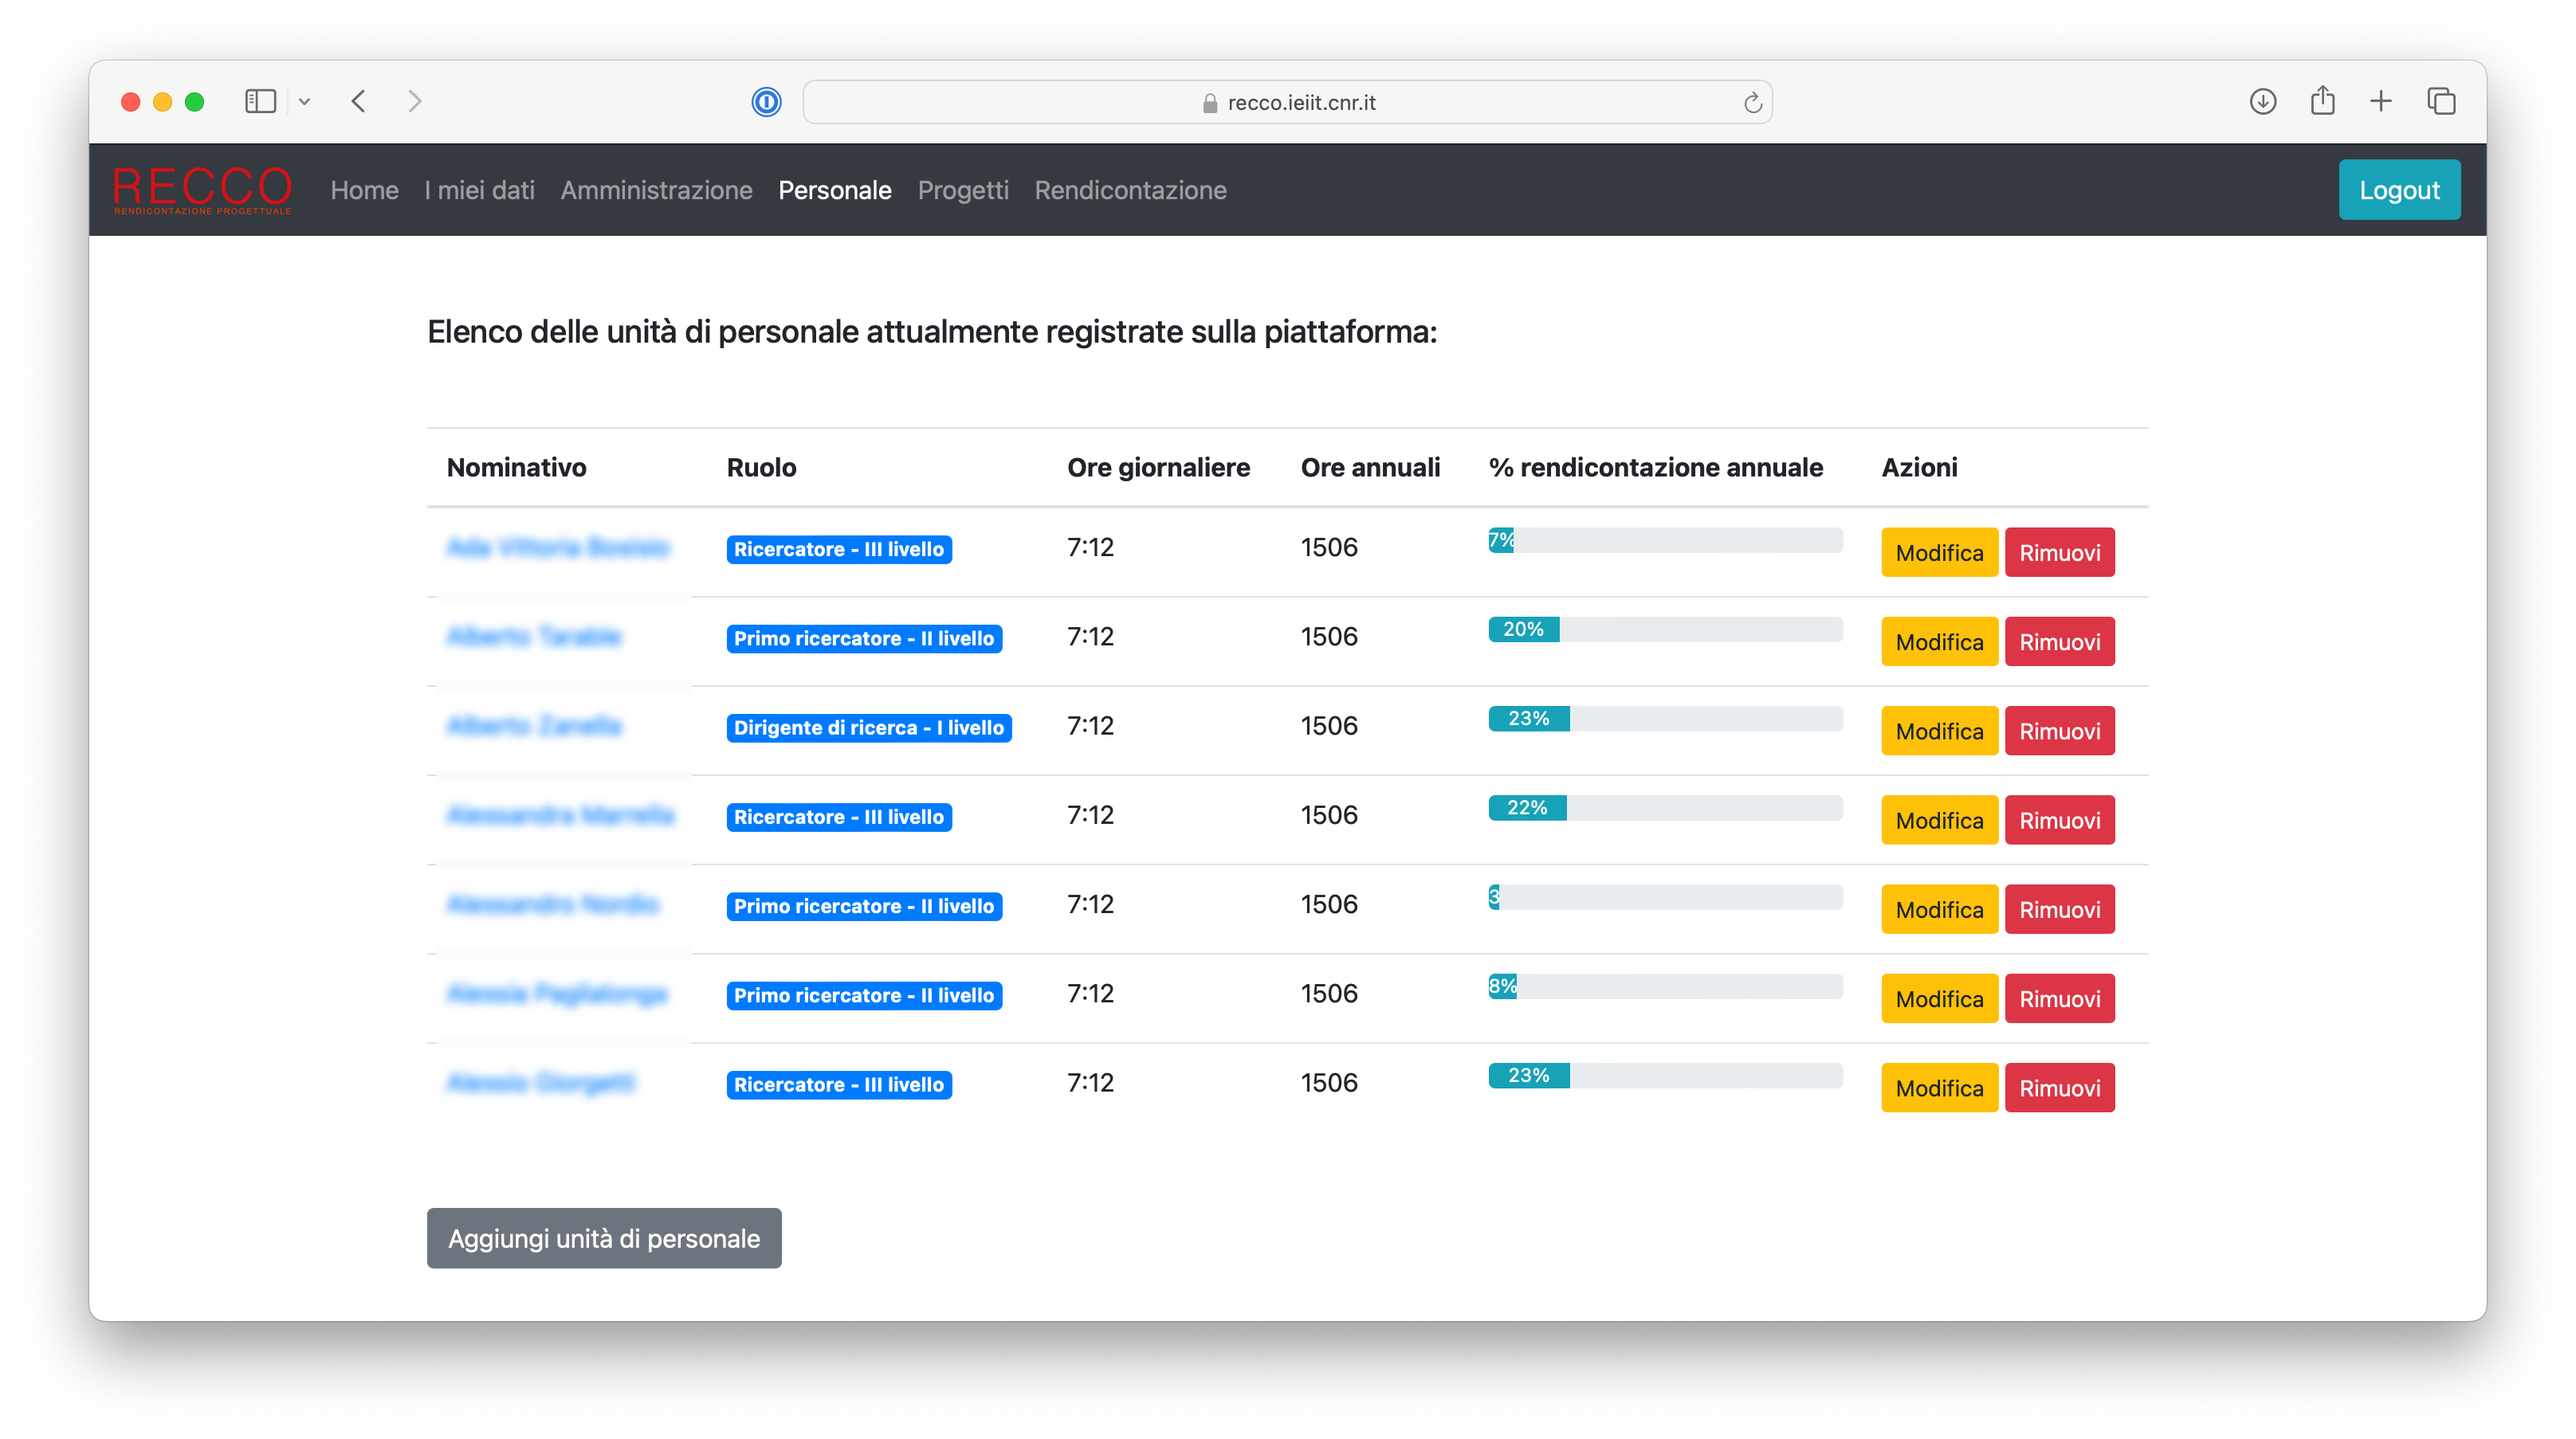
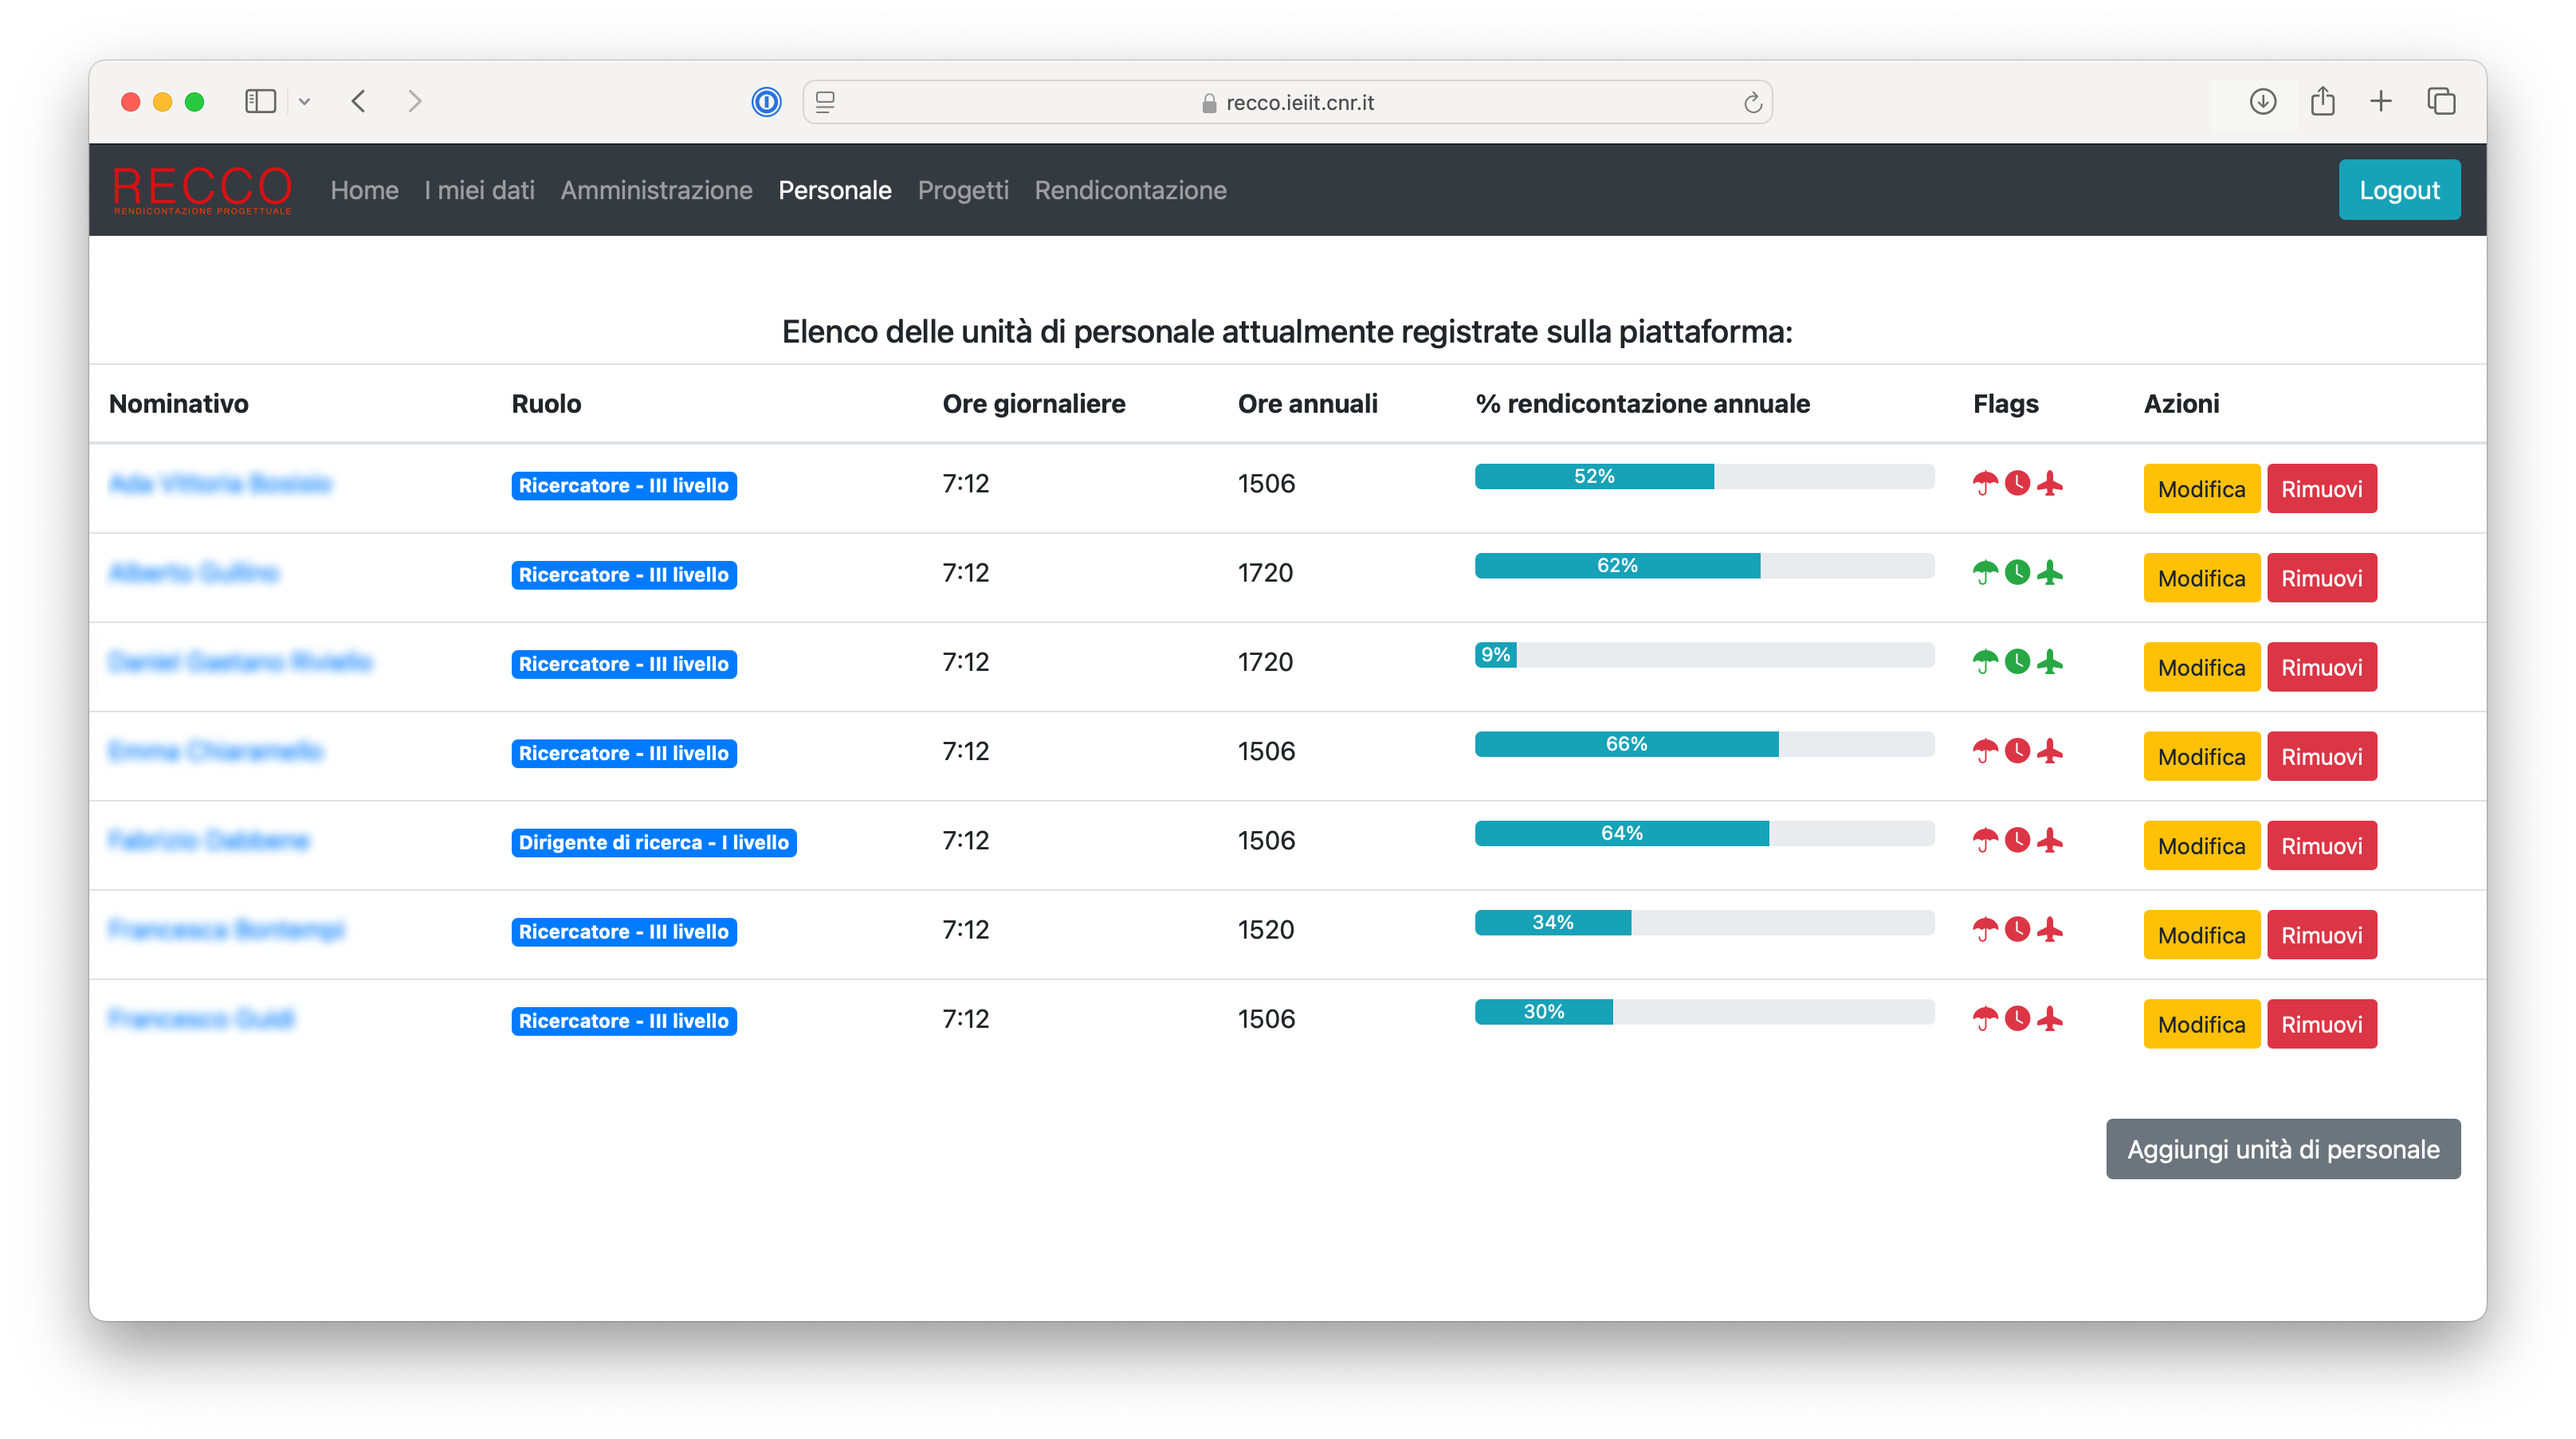
Updated to 1.1 version with personnel flags

diff --git a/docs/utilizzo_gestionepersonale.md b/docs/utilizzo_gestionepersonale.md
@@ -21,6 +21,13 @@ Tale finestra mostra una lista di unità di personale registrate all'interno del
 * ore giornaliere da svolgere
 * ore annuali da svolgere
 * percentuale di ore rendicontate nell'anno corrente, rispetto al totale delle ore annuali
+* flags
+
+Per quanto riguarda i flags, questi permettono di abilitare la possibilità di rendicontare ore secondo determinate regole, generando fogli orari da compilare specifici personalizzati per ogni utente, secondo quanto definito dai relativi flag.
+In particolare:
+* rendicontazione fuori sede (identificata da un ombrello): è possibile abilitare o disabilitare la possibilità per una specifica unità di personale di rendicontare ore in periodi fuori sede
+* rendicontazione oltre le ore giornaliere (identificata da un orologio): è possibile abilitare o disabilitare la possibilità di rendicontare più delle ore giornaliere previste (es. più di 7:12 ore); può essere ad esempio utile abilitare questa funzionalità per personale con contratto a tempo determinato
+* rendicontazione in missione (identificata da un aereo): è possibile abilitare o disabilitare la possibilità di rendicontare periodi in missione
 
 #### Modifica di una unità di personale ####
 
@@ -62,7 +69,7 @@ Per rimuovere una unità di personale, procedere come segue:
 
 E' inoltre possibile registrare una nuova unità di personale all'interno del sistema, tramite il bottone `Aggiungi unità di personale`.
 
-<img src="img/interfaccia_personale_lista_aggiungi.png">
+<img src="img/interfaccia_personale_lista_aggiunta.png">
 
 *Finestra di aggiunta di una nuova unità di personale*
 

diff --git a/README.md b/README.md
@@ -13,7 +13,7 @@ Questo repository riporta una guida di utilizzo della piattaforma RECCO, svilupp
 3. [Prima configurazione](docs/primaconfigurazione.md)
 4. [Utilizzo del sistema](docs/utilizzo.md)
 
-La versione considerata è la versione `1.0`.
+La versione considerata è la versione `1.1`.
 
 ### FAQ ###
 
